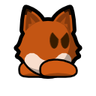
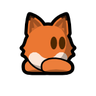
0.8.0

diff --git a/src/classes/skins/TeeSkin7.ts b/src/classes/skins/TeeSkin7.ts
@@ -223,12 +223,12 @@ export class TeeSkin7 {
       markingAsset
     ]);
 
-    // // Blink emote
-    // if (opts.eyeVariant === TeeSkinEyeVariant.blink) {
-    //   selectedEyes = await sharp(selectedEyes.data)
-    //     .resize(selectedEyes.info.width, Math.round(selectedEyes.info.height * 0.45))
-    //     .toBuffer();
-    // }
+    // Blink emote
+    if (opts.eyeVariant === TeeSkinEyeVariant.blink) {
+      selectedEyes = await sharp(selectedEyes)
+        .resize(selectedEyesRegion.width, Math.round(selectedEyesRegion.height * 0.45))
+        .toBuffer();
+    }
 
     // Coloring
     [decorationShadow, decorationColorable, bodyColorable, marking, selectedEyes, footColorable] = await Promise.all([
@@ -254,8 +254,8 @@ export class TeeSkin7 {
 
     const bodySize = spriteRegions.body.shadow.width;
     const footSize = spriteRegions.foot.shadow.width;
-    const eyeHeight = spriteRegions.eyes[TeeSkinEyeVariant.normal].height;
-    const eyeWidth = spriteRegions.eyes[TeeSkinEyeVariant.normal].width;
+    const eyeHeight = opts.eyeVariant === TeeSkinEyeVariant.blink ? Math.round(selectedEyesRegion.height * 0.45) : selectedEyesRegion.height;
+    const eyeWidth = selectedEyesRegion.width;
     const canvasSize = bodySize * 1.2; // Slight margin of empty space around the tee
 
     const centerOffset = (4 / 64) * bodySize;
@@ -280,6 +280,7 @@ export class TeeSkin7 {
 
     const overlays: sharp.OverlayOptions[] = [
       { input: footShadow, left: lFootX, top: footY }, // back foot
+      { input: footShadow, left: rFootX, top: footY }, // front foot
       { input: bodyShadow, left: bodyX, top: bodyY },
       decorationShadow ? { input: decorationShadow, left: bodyX, top: bodyY } : null,
       { input: footColorable, left: lFootX, top: footY }, // back foot
@@ -289,7 +290,6 @@ export class TeeSkin7 {
       { input: bodyAccent, left: bodyX, top: bodyY },
       { input: bodyOutline, left: bodyX, top: bodyY },
       { input: selectedEyes, left: eyeX, top: eyeY },
-      { input: footShadow, left: rFootX, top: footY }, // front foot
       { input: footColorable, left: rFootX, top: footY } // front foot
     ].filter(Boolean) as sharp.OverlayOptions[];
 

diff --git a/src/DDNet.ts b/src/DDNet.ts
@@ -71,16 +71,3 @@ export * from './schemas/players/query.js';
 export * from './util.js';
 
 export { findPlayer } from './Master.js';
-
-// import { TeeSkinEyeVariant } from './classes/skins/TeeSkinUtils.js';
-// import { findPlayer } from './Master.js';
-// const me = (await findPlayer('Sans3108'))![0];
-
-// console.log(me.self.skin);
-
-// await me.renderSkin({
-//   saveFilePath: 'tee.png',
-//   eyeVariant: TeeSkinEyeVariant.normal,
-//   size: 256,
-//   viewAngle: 0
-// });

diff --git a/src/classes/skins/TeeSkinUtils.ts b/src/classes/skins/TeeSkinUtils.ts
@@ -12,11 +12,11 @@ export enum TeeSkinEyeVariant {
   angry = 'eye-angry',
   pain = 'eye-pain',
   happy = 'eye-happy',
-  dead = 'eye-dead',
-  surprise = 'eye-surprise',
   /**
    * Unused, some 0.6 skins have them though
    */
+  dead = 'eye-dead',
+  surprise = 'eye-surprise',
   blink = 'eye-blink'
 }
 

diff --git a/README.md b/README.md
@@ -155,30 +155,51 @@ const map = await Map.new('Baby Aim 1.0');
 console.log(`${map.finishes[0].players[0].name} ${map.finishes[0].timeString}`); // "Cireme 06:25"
 ```
 
-### TW 0.6 Skin rendering
+### Skin rendering
 
-I tried my hand at making a renderer based on [TeeAssembler-2.0](https://github.com/AlexIsTheGuy/TeeAssembler-2.0) by [AlexIsTheGuy](https://github.com/AlexIsTheGuy), and I think I nailed it.
+The lib also provides a way to render still images of any skin, in any way (without animated feet)
+
+#### 0.6 (DDNet) skins
+
+With inspiration from [TeeAssembler-2.0](https://github.com/AlexIsTheGuy/TeeAssembler-2.0) by [AlexIsTheGuy](https://github.com/AlexIsTheGuy) and help from [Patiga](https://github.com/Patiga)'s [Tee Rendering documentation](https://github.com/heinrich5991/libtw2/blob/master/doc/tee_rendering.md). It is able to render any 0.6 skin from either a skin name or buffer.
 
 Example usage:
 
 ```ts
 import { TeeSkin6 } from 'ddnet';
 
-const mySkin = new TeeSkin6({ skinResource: 'CrystalCat' });
-const rendered = await mySkin.render({ eyeVariant: 'eye-happy' });
-// Do something with the rendered skin buffer, like sending it in a message on discord as an attachment
+const mySkin = new TeeSkin6({ skinResource: '10Fox' });
+const rendered = await mySkin.render(); // Do something with the rendered skin buffer
 
-// Or optionally, save it to a file by providing a file path, like this:
-await mySkin.render({ eyeVariant: 'eye-happy', saveFilePath: 'my-skin.png' }); // Still returns a buffer
+// Or optionally, save it to a file by providing a file path
+await mySkin.render({ saveFilePath: 'my-skin.png' }); // Still returns a buffer
 ```
 
 _my-skin.png_
 
 ![Skin Render Output](https://raw.githubusercontent.com/Sans3108/DDNet/master/misc/my-skin.png)
 
-### TW 0.7 Skin rendering
+You can also customize the emote, and direction the tee is looking towards:
 
-I also tried creating a TW 0.7 skin renderer, which is similar to the 0.6 renderer but with a few changes.
+```ts
+import { TeeSkin6, TeeSkinEyeVariant } from 'ddnet';
+
+const mySkin = new TeeSkin6({ skinResource: '10Fox' });
+
+await mySkin.render({
+  saveFilePath: 'my-skin-happy-left.png',
+  eyeVariant: TeeSkinEyeVariant.happy,
+  viewAngle: 180 // left, since 0 is right
+});
+```
+
+_my-skin-happy-left.png_
+
+![Skin Render Output](https://raw.githubusercontent.com/Sans3108/DDNet/master/misc/my-skin-happy-left.png)
+
+#### 0.7 (Teeworlds) skins
+
+Very similar to 0.6 skins, the only difference being how the instance is initialized.
 
 Example usage:
 
@@ -197,12 +218,10 @@ const rendered = await skin.render({
     markingTWcode: -485425166,
     feetTWcode: 1102450,
     eyesTWcode: 1441632
-  },
-  eyeVariant: 'eye-evil'
-});
-// Do something with the rendered skin buffer, like sending it in a message on discord as an attachment
+  }
+}); // Do something with the rendered skin buffer
 
-// Or optionally, save it to a file by providing a file path, like this:
+// Or optionally, save it to a file by providing a file path
 await skin.render({
   customColors: {
     bodyTWcode: 1102443,
@@ -210,14 +229,15 @@ await skin.render({
     feetTWcode: 1102450,
     eyesTWcode: 1441632
   },
-  saveFilePath: 'fox.png',
-  eyeVariant: 'eye-evil'
+  saveFilePath: 'fox.png'
 }); // Still returns a buffer
 ```
 
 _fox.png_
 
 ![Skin Render Output](https://raw.githubusercontent.com/Sans3108/DDNet/master/misc/fox.png)
+
+Other customizations remain the same between 0.6 and 0.7 skins such as the emote, eye direction etc.
 
 ## Cache
 
